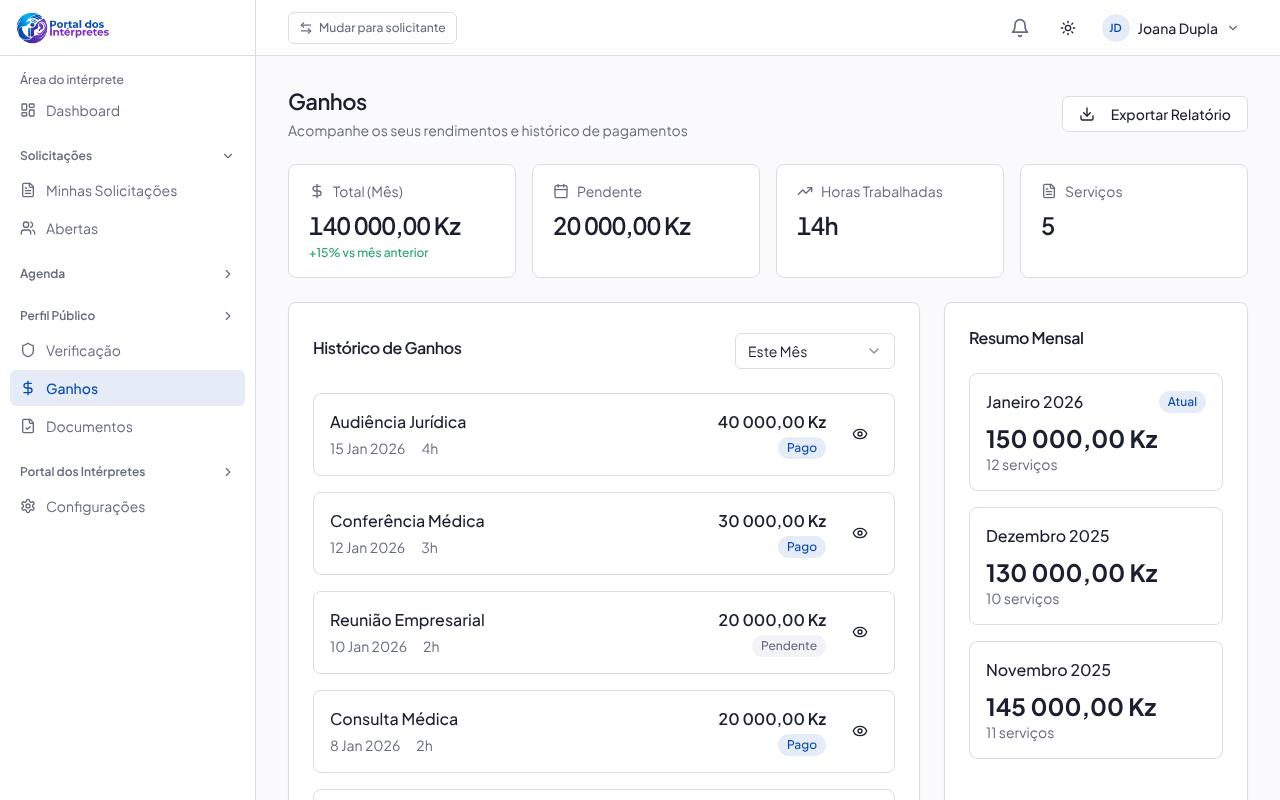
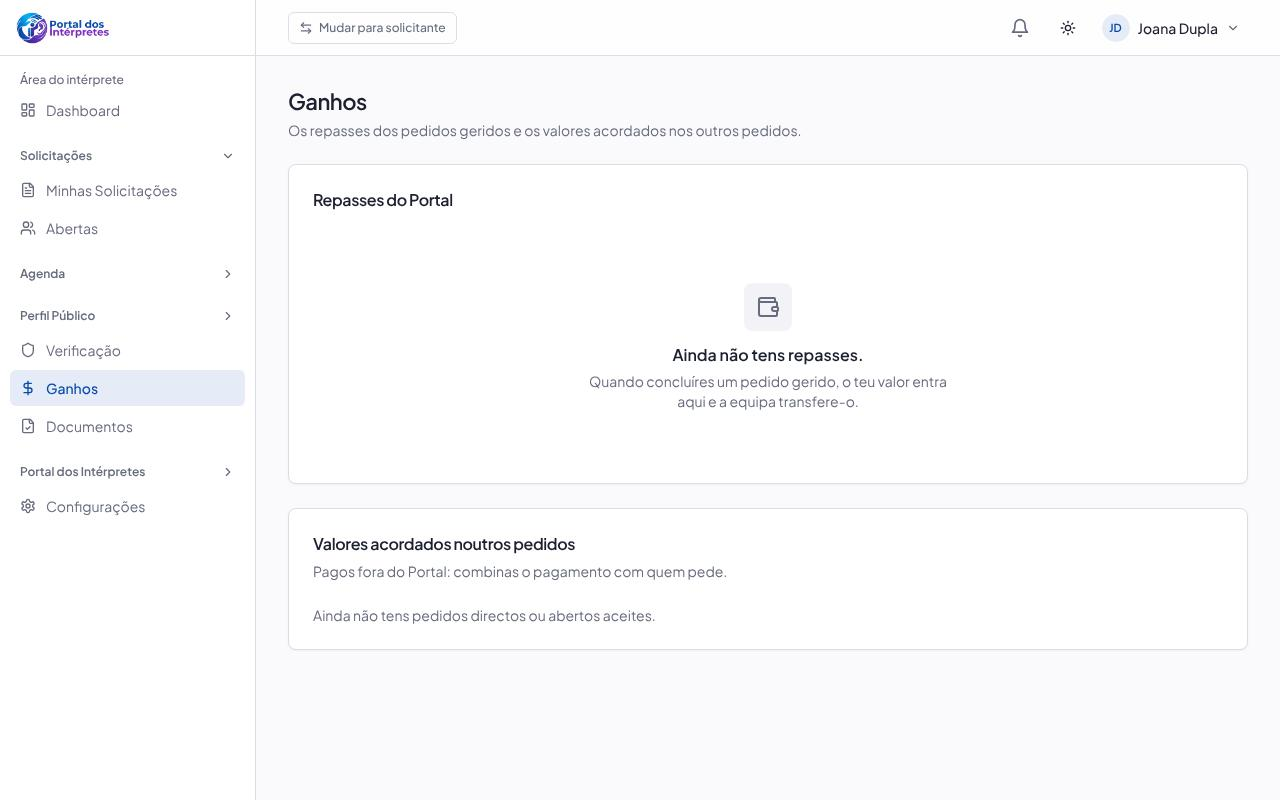
fix(billing): review of H10, and close the step as v0.19.0
- deferred refund keeps its policy; a cancelled subject refunds what is left, once, with a reason
- organisation owners and admins told; refunded split into paid and to transfer
- a corrected IBAN reaches queued payouts; late proof and repeated file refused
- refund notes for finance only; receipts refuse TRUNCATE
- ApiClient.download reads the first error; receipt PDF keeps WinAnsi characters and wraps lines
- interpreter earnings show its own payouts only
- step report, CHANGELOG, HANDOFF, run-log, AD-039; evidence of H10

diff --git a/packages/db-types/src/database.ts b/packages/db-types/src/database.ts
@@ -149,6 +149,7 @@ export type Database = {
                     "payer_account": string;
                     "reference": string;
                     "refund_due_on_confirm_aoa": number | null;
+                    "refund_due_policy": Json | null;
                     "refund_due_reason_code": string | null;
                     "status": string;
                     "subject_cancelled_at": string | null;
@@ -174,6 +175,7 @@ export type Database = {
                     "payer_account": string;
                     "reference": string;
                     "refund_due_on_confirm_aoa"?: number | null;
+                    "refund_due_policy"?: Json | null;
                     "refund_due_reason_code"?: string | null;
                     "status"?: string;
                     "subject_cancelled_at"?: string | null;
@@ -198,6 +200,7 @@ export type Database = {
                     "payer_account"?: string;
                     "reference"?: string;
                     "refund_due_on_confirm_aoa"?: number | null;
+                    "refund_due_policy"?: Json | null;
                     "refund_due_reason_code"?: string | null;
                     "status"?: string;
                     "subject_cancelled_at"?: string | null;
@@ -494,6 +497,7 @@ export type Database = {
                     "payer_name": string | null;
                     "receipts": Json | null;
                     "reference": string;
+                    "refund_pending_aoa": number | null;
                     "refunded_aoa": number | null;
                     "status": string;
                     "subject_cancelled_at": string | null;
@@ -657,6 +661,7 @@ export type Database = {
                     "payer_account": string;
                     "reference": string;
                     "refund_due_on_confirm_aoa": number | null;
+                    "refund_due_policy": Json | null;
                     "refund_due_reason_code": string | null;
                     "status": string;
                     "subject_cancelled_at": string | null;
@@ -706,6 +711,7 @@ export type Database = {
                     "payer_account": string;
                     "reference": string;
                     "refund_due_on_confirm_aoa": number | null;
+                    "refund_due_policy": Json | null;
                     "refund_due_reason_code": string | null;
                     "status": string;
                     "subject_cancelled_at": string | null;
@@ -968,6 +974,7 @@ export type Database = {
                     "payer_account": string;
                     "reference": string;
                     "refund_due_on_confirm_aoa": number | null;
+                    "refund_due_policy": Json | null;
                     "refund_due_reason_code": string | null;
                     "status": string;
                     "subject_cancelled_at": string | null;

diff --git a/apps/api/src/lib/receiptPdf.ts b/apps/api/src/lib/receiptPdf.ts
@@ -45,19 +45,47 @@ export function receiptLines(payload: ReceiptPayload): string[] {
   return lines
 }
 
-/** PDF string literal in WinAnsi (Latin-1 covers Portuguese), with ( ) \ escaped. */
+/** Characters WinAnsi has outside Latin-1, at their WinAnsi byte (names and descriptions use them). */
+const WIN_ANSI: Readonly<Record<string, number>> = {
+  '\u20ac': 0x80, '\u201a': 0x82, '\u201e': 0x84, '\u2026': 0x85, '\u2018': 0x91, '\u2019': 0x92, '\u201c': 0x93,
+  '\u201d': 0x94, '\u2022': 0x95, '\u2013': 0x96, '\u2014': 0x97, '\u0152': 0x8c, '\u0153': 0x9c,
+}
+
+/** PDF string literal in WinAnsi, with ( ) \ escaped; what WinAnsi cannot show becomes "?". */
 function pdfText(text: string): Buffer {
-  const latin = Buffer.from(text.replace(/[^\x20-\xff]/g, '?'), 'latin1')
   const parts: number[] = []
-  for (const byte of latin) {
+  for (const char of text) {
+    const code = char.codePointAt(0) ?? 0x3f
+    const byte = WIN_ANSI[char] ?? (code >= 0x20 && code <= 0xff && (code < 0x7f || code >= 0xa0) ? code : 0x3f)
     if (byte === 0x28 || byte === 0x29 || byte === 0x5c) parts.push(0x5c)
     parts.push(byte)
   }
   return Buffer.from(parts)
 }
 
+/** Lines of at most `width` characters, broken at spaces (an A4 page holds about 85 at 11 pt). */
+export function wrap(line: string, width = 85): string[] {
+  if (line.length <= width) return [line]
+  const out: string[] = []
+  let current = ''
+  for (const word of line.split(' ')) {
+    if (current && (current + ' ' + word).length > width) {
+      out.push(current)
+      current = word
+    } else {
+      current = current ? `${current} ${word}` : word
+    }
+    while (current.length > width) {
+      out.push(current.slice(0, width))
+      current = current.slice(width)
+    }
+  }
+  if (current) out.push(current)
+  return out
+}
+
 export function receiptPdf(payload: ReceiptPayload): Buffer {
-  const lines = receiptLines(payload)
+  const lines = receiptLines(payload).flatMap((line, index) => (index === 0 ? [line] : wrap(line)))
   const content: Buffer[] = [Buffer.from('BT\n/F1 11 Tf\n56 780 Td\n16 TL\n', 'latin1')]
   lines.forEach((line, index) => {
     const size = index === 0 ? 16 : 11

diff --git a/packages/data/src/dao/api/ApiClient.ts b/packages/data/src/dao/api/ApiClient.ts
@@ -74,8 +74,9 @@ export class ApiClient {
       throw new DataError('INTERNAL_ERROR', { cause })
     }
     if (response.ok) return response.blob()
-    // The error body is JSON like any other: let the common path read it.
-    return this.request<Blob>('GET', path)
+    const payload: unknown = (response.headers.get('Content-Type') ?? '').includes('application/json')
+      ? await response.json().catch(() => undefined) : undefined
+    throw this.failure(response.status, payload, 'GET', path)
   }
 
   /** Sends a file to the storage URL the API signed (POST /uploads/sign); no session header there. */
@@ -123,11 +124,16 @@ export class ApiClient {
       return payload as T
     }
 
+    throw this.failure(response.status, payload, method, path)
+  }
+
+  /** The DataError of a failed answer: the catalog code it sent, or one for its status (api.md §2). */
+  private failure(status: number, payload: unknown, method: string, path: string): DataError {
     const envelope = (payload ?? {}) as ErrorEnvelope
     const sentCode = typeof envelope.error?.code === 'string' ? envelope.error.code : undefined
-    const code = sentCode ?? STATUS_CODES[response.status] ?? 'INTERNAL_ERROR'
+    const code = sentCode ?? STATUS_CODES[status] ?? 'INTERNAL_ERROR'
     if (!sentCode || !isErrorCode(sentCode)) {
-      console.error(`[api] ${method} ${path}: ${response.status} with code ${sentCode ?? 'none'}`)
+      console.error(`[api] ${method} ${path}: ${status} with code ${sentCode ?? 'none'}`)
     }
     let params: MessageParams | undefined
     if (isParams(envelope.error?.params)) {
@@ -138,6 +144,6 @@ export class ApiClient {
     const details = isStringRecord(envelope.error?.details) ? envelope.error.details : undefined
     const error = new DataError(code, { params, details, cause: payload })
     this.options.onError?.(error, { method, path })
-    throw error
+    return error
   }
 }

diff --git a/apps/interpreter-web/src/pages/dashboard/interpreter/InterpreterEarnings.tsx b/apps/interpreter-web/src/pages/dashboard/interpreter/InterpreterEarnings.tsx
@@ -2,7 +2,7 @@ import { Link } from 'react-router-dom'
 import { useBillingQuery } from '@portal-dos-interpretes/features/billing/Billing'
 import { QueryError, TableSkeleton } from '@portal-dos-interpretes/features/components/QueryStates'
 import { priceText } from '@portal-dos-interpretes/features/requests/RequestParts'
-import { useMyAssignments } from '@portal-dos-interpretes/features/requests/RequestsContext'
+import { useMyAssignments, useRequests } from '@portal-dos-interpretes/features/requests/RequestsContext'
 import { formatAoa, formatDate, formatDateTime, PAYOUT_STATUS_LABELS } from '@portal-dos-interpretes/i18n'
 import { Badge } from '@portal-dos-interpretes/ui/components/badge'
 import { Card, CardContent, CardHeader, CardTitle } from '@portal-dos-interpretes/ui/components/card'
@@ -14,7 +14,10 @@ import { Wallet } from 'lucide-react'
 // with the reference), and apart the prices agreed in direct and open requests, paid outside the
 // Portal (D-30). Nothing is added up here: each value is what the database holds.
 export default function InterpreterEarnings() {
-  const payouts = useBillingQuery(['payouts'], (repository) => repository.payouts())
+  const { accountId } = useRequests()
+  // Only the interpreter's own: an account that is also finance reads every payout in the view.
+  const payouts = useBillingQuery(['payouts', 'mine', accountId], async (repository) =>
+    (await repository.payouts()).filter((row) => row.interpreter_id === accountId))
   const mine = useMyAssignments()
   const agreed = (mine.data ?? []).filter((row) => row.kind !== 'managed' && ['accepted', 'delivered', 'completed'].includes(row.status ?? '') && row.agreed_price_aoa !== null)
   return (

diff --git a/packages/features/src/billing/Billing.tsx b/packages/features/src/billing/Billing.tsx
@@ -57,7 +57,8 @@ export function ReceiptButton({ receipt }: { receipt: ReceiptLink }) {
       link.href = url
       link.download = `${receipt.number}.pdf`
       link.click()
-      URL.revokeObjectURL(url)
+      // Some browsers cancel the download if the link is revoked at once.
+      setTimeout(() => URL.revokeObjectURL(url), 30_000)
     } catch (error) {
       toast.error(errorMessage(error))
     } finally {
@@ -146,6 +147,8 @@ export function PaymentBlock({ payment }: { payment: PaymentRow }) {
               : <p className="text-muted-foreground">Só o dono ou um administrador da organização envia o comprovativo.</p>}
           </div>
         )}
+        {payment.status === 'cancelled' && <p className="text-muted-foreground">Este pagamento foi cancelado: já não há nada a pagar.</p>}
+        {(payment.refund_pending_aoa ?? 0) > 0 && <p>Reembolso a transferir pela equipa: <span className="tabular-nums">{formatAoa(payment.refund_pending_aoa ?? 0)}</span></p>}
         {(payment.refunded_aoa ?? 0) > 0 && <p>Reembolsado: <span className="tabular-nums">{formatAoa(payment.refunded_aoa ?? 0)}</span></p>}
         {receipts.length > 0 && <div className="flex flex-wrap gap-2">{receipts.map((receipt) => <ReceiptButton key={receipt.id} receipt={receipt} />)}</div>}
       </CardContent>

diff --git a/apps/api/src/lib/receiptPdf.test.ts b/apps/api/src/lib/receiptPdf.test.ts
@@ -1,5 +1,5 @@
 import { describe, expect, it } from 'vitest'
-import { receiptLines, receiptPdf } from './receiptPdf.js'
+import { receiptLines, receiptPdf, wrap } from './receiptPdf.js'
 
 const payload = {
   number: 'RC-2026-000001', kind: 'payment' as const, issued_at: '2026-11-06T10:00:00Z', issued_to: 'Paula (Clínica)',
@@ -21,5 +21,11 @@ describe('receipt PDF (R-PAY-12)', () => {
     expect(text).toContain('(Documento n\u00e3o fiscal) Tj')
     expect(text).toContain('Paula \\(Cl\u00ednica\\)')
     expect(text.trimEnd().endsWith('%%EOF')).toBe(true)
+  })
+
+  it('keeps the typographic characters WinAnsi has and wraps a long description (review of H10)', () => {
+    const text = receiptPdf({ ...payload, issued_to: 'Clínica D\u2019Ávila \u2013 Luanda', description: 'palavra '.repeat(40).trim() }).toString('latin1')
+    expect(text).toContain('Cl\u00ednica D\u0092\u00c1vila \u0096 Luanda')
+    expect(wrap('palavra '.repeat(40).trim()).every((line) => line.length <= 85)).toBe(true)
   })
 })

diff --git a/docs/plan/step-reports/H10.md b/docs/plan/step-reports/H10.md
@@ -1,0 +1,41 @@
+# Relatório do passo H10 — pagamentos, reembolsos, repasses e recibos (v0.19.0, 2026-11-06)
+
+## O que mudou
+- **Base (migration 0012):** `billing.payment_intents` (uma viva por assunto), `payment_proofs` (um pendente), `refunds`, `payouts`, `receipts` (imutáveis, também a `TRUNCATE`) e `identity.interpreter_payout_details`.
+- **Funções (`99c-billing.sql`):** `split_amount` (a única conta de impostos), `managed_interpreter_share` (arredonda para cima), `create_intent` (sem dados bancários da Academia, `CONFIG_VALUE_MISSING`), `submit_proof`, `review_proof`, `expire_intents` (com o aviso 12 horas antes), `cancel_intent_for_subject`, `create_refund` (com a intenção fechada `FOR UPDATE`), `create_manual_refund`, `mark_refund_paid`, `queue_payout`, `mark_payout_paid`, `cancel_payout`, `issue_receipt` (sem buracos), `identity.save_payout_details`; `billing.on_subject_event` é o gancho que o H11, o H12 e o H17 preenchem. Vistas para o pagador, as filas do financeiro e o intérprete.
+- **API:** `POST /payment-intents/:id/proofs`, `POST /admin/proofs/:id/accept|reject`, `POST /admin/refunds`, `POST /admin/refunds/:id/mark-paid`, `POST /admin/payouts/:id/mark-paid`, `PUT /me/payout-details`, `GET /receipts/:id/pdf` (PDF escrito pela API, sem dependências novas).
+- **Ecrãs:** `requester-web` `/payments` com o bloco de pagamento (valores como a intenção diz, referência e IBAN para copiar, prazo, "Enviar comprovativo", estados, recibos); `interpreter-web` `/earnings` (repasses e, à parte, os valores acordados pagos fora do Portal) e "Dados para receber" em `/settings`; `admin-web` `/payments` (comprovativos por validar, histórico), `/refunds` e `/payouts`. Os mocks antigos foram apagados.
+
+## Prova
+### Testes de comportamento contra o commit anterior
+As asserções de `packages/db/tests/0012-payments.sql`, os testes da API de pagamentos e `tests/e2e/specs/h10-payments.spec.ts` usam tabelas, funções e rotas que não existem em `v0.18.0`. Falham lá por construção e passam aqui.
+
+### Asserções SQL do H10
+```
+ok - without the Academia IBAN in the configuration an intent is refused with CONFIG_VALUE_MISSING (criterion 1)
+ok - split_amount: 114 000 with 14 % included is 100 000 + 14 000; 0 % is no tax; 80 % of 15 001 is 12 001 (criteria 4, 6)
+ok - one live intent per subject, in the function and in the database; the bank data is a copy (criterion 2)
+ok - the proof flow: send, refuse with a reason, send again, accept, one receipt; twice is STATE_CHANGED (criterion 7)
+ok - refunds up to the total, paid with a reference and a refund receipt; receipts never change (R-PAY-07, R-PAY-12)
+ok - receipt numbers have no gaps, even after a transaction failing half-way (criterion 5)
+ok - in an organisation only the owner or admin sends the proof, and they are told (R-PAY-04)
+ok - payments read by the payer side and finance only; the queue by finance only
+ok - a sent proof never expires; its refund comes when accepted; a waiting intent is warned and expires (R-PAY-06)
+ok - a cancelled subject refunds what is left, once; a proof after the deadline is INTENT_EXPIRED (review of H10)
+ok - a payout needs the interpreter's bank details; added later, the queue takes them (R-PAY-10, R-PAY-11)
+```
+Os 12 ficheiros passam numa base nova.
+
+### API, unitários e Playwright
+```
+unitários: 265 passaram (3 do PDF do recibo); API contra a base: 53 passaram (critério 3 em concorrência)
+suite completa (antes das correcções da revisão): 140 passed
+depois das correcções: h10, admin, panels e h8 106 passed
+```
+Capturas em `docs/plan/evidence/H10/`.
+
+## Revisão independente
+19 achados (0 bloqueantes). Corrigidos: a política do reembolso adiado guardada; o reembolso de um assunto cancelado limitado ao que falta e criado uma só vez; o motivo do reembolso obrigatório (sem valor por omissão); os donos e administradores da organização avisados; "Reembolsado" só com o que foi pago (o resto como "a transferir"); o IBAN corrigido chega aos repasses em fila; o comprovativo depois do prazo e o ficheiro repetido recusados; a nota do reembolso manual só para a equipa; o `download` lê o erro da primeira resposta; o link do PDF revogado mais tarde; o PDF com os caracteres WinAnsi e linhas partidas; a mensagem do pagamento cancelado; `TRUNCATE` dos recibos recusado; os ganhos do intérprete só com os seus repasses. Registados: a ordem de bloqueio para o H11 (AD-039.12), `warn_payment_review` e `managed_refund_amount` no H11, o `Idempotency-Key` (AD-039.7), o dono do ficheiro carregado não é verificado (o caminho é assinado para a intenção e só quem paga o pode assinar).
+
+## Pendente da Academia
+Dados bancários (`PC-06`), imposto e factura (`PC-04`), percentagem do intérprete (`PC-02`): sem eles, nenhuma intenção real nasce e a produção fica bloqueada.

diff --git a/HANDOFF.md b/HANDOFF.md
@@ -1,16 +1,17 @@
 # HANDOFF
-- Versão: v0.18.0 (H9 fechado em 2026-11-06)
-- Próximo passo: H10 — pagamentos: intenções, comprovativos, validação, reembolsos, repasses, recibos (docs/plan/specs/payments.md; critérios 1 a 7)
+- Versão: v0.19.0 (H10 fechado em 2026-11-06)
+- Próximo passo: H11 — pedido gerido (docs/plan/specs/requests-managed.md; critérios 1 a 6; critério 6 de service-lifecycle.md; suspensão num gerido pago, D-90)
 - Remoto: https://github.com/RafaelPilartes/monorepo-portal_dos_interprete-ts (trabalho em `dev`; `main` não se toca)
+- Feito no H10: intenções, comprovativos, validação, reembolsos, repasses e recibos; `/payments` (solicitante e admin), `/refunds`, `/payouts`, ganhos e dados para receber do intérprete (19 achados da revisão, docs/plan/step-reports/H10.md).
 - Feito no H9: avaliações dupla-cegas, revelação pelo relógio, esconder pela equipa, médias no directório e no perfil (10 achados da revisão, 8 corrigidos, docs/plan/step-reports/H9.md).
 - Feito no H8: cancelar (pedido e participação, com tardio), marcar como feito, confirmar e confirmação automática, disputas e resolução no admin, `/schedule` real, cascata da suspensão (7 achados da revisão, 6 corrigidos, docs/plan/step-reports/H8.md).
 - Feito no H7: pedido aberto nos dois modos, candidaturas, escolha, aceitação concorrente (10 achados da revisão corrigidos ou registados, docs/plan/step-reports/H7.md).
 - Feito no H6: negociação de preço no chat (propostas, contrapropostas, aceitar e recusar; 10 achados da revisão corrigidos ou registados, docs/plan/step-reports/H6.md).
 - Feito no H5: pedidos (só o directo), convites, aceitar e recusar, estado derivado, expirações, chat, sino e `/notifications`. 13 achados da revisão corrigidos ou registados (docs/plan/step-reports/H5.md).
 - A lembrar no H16: as avaliações na fila de denúncias (`R-REV-04`). A confirmar com a Academia: o prazo de avaliar fecha quando a avaliação do outro é revelada (AD-038.2).
-- A lembrar no H11: critério 6 do ciclo (reembolso numa disputa do gerido, `refund_decision`), a suspensão num gerido pago, o repasse ao concluir.
+- A lembrar no H11: preencher `billing.on_subject_event` (`booking.on_payment_event`), chamar `create_intent`, `cancel_intent_for_subject`, `queue_payout`/`cancel_payout`; fechar a intenção antes do pedido nas funções que cancelam (AD-039.12); `managed_refund_amount`, `warn_payment_review` (D-94); critério 6 do ciclo (reembolso numa disputa do gerido, `refund_decision`), a suspensão num gerido pago, o repasse ao concluir.
 - A lembrar no H7, H8 e H11: abrir os outros tipos em `booking.create_request` e no assistente; passo 4 de `refresh_request_status` (pagamento do gerido, H11). Coisas dos ecrãs adiadas: AD-034.12.
-- Auto-decisões novas: AD-034 (H5), AD-035 (H6), AD-036 (H7), AD-037 (H8), AD-038 (H9)
+- Auto-decisões novas: AD-034 (H5), AD-035 (H6), AD-036 (H7), AD-037 (H8), AD-038 (H9), AD-039 (H10)
 - Bloqueios: bundle do histórico antigo (AD-001); push de tags (correr scripts/release-tags.sh, AD-002)
 - Por confirmar com a Academia: fixos angolanos (AD-020); limites dos buckets (AD-022); reset-local (AD-025); email genérico (AD-027); preços reais dos serviços (AD-032.8); textos legais, margem do gerido, taxa de verificação e dados bancários (PC-02, PC-03, PC-05, PC-06)
 - Ambiente: arrancar o `dockerd` à mão se `docker info` falhar (apagar `/var/run/docker.pid` se ficou de uma sessão anterior); `pnpm db:up && pnpm db:bootstrap-admin admin@portal.local` antes do Playwright; `pnpm db:down` no fim. Não correr o push (que corre `db:verify`) ao mesmo tempo que o Playwright: os dois usam a base local.

diff --git a/docs/plan/auto-decisions.md b/docs/plan/auto-decisions.md
@@ -371,5 +371,7 @@
   7. **Duplo clique em "Aceitar":** a segunda chamada responde `STATE_CHANGED` (a intenção já está confirmada). O `Idempotency-Key` da API ainda não guarda respostas; fica para quando houver um pagamento real de ponta a ponta (H11).
   8. **Dados para receber:** gravados por `identity.save_payout_details` através de `PUT /me/payout-details` (sem colunas abertas à sessão); o IBAN aceita espaços e minúsculas e é guardado normalizado.
   9. **Quem lê um pagamento:** o pagador, os membros activos da organização pagadora (só `owner`/`admin` pagam) e `finance` (e `super_admin`). As filas do admin (`/payments`, `/refunds`, `/payouts`) só para `finance`.
+  11. **Revisão do H10:** quem corrige o IBAN muda a cópia de todos os repasses ainda em fila (a regra diz "os que não têm cópia"; pagar para um IBAN errado é pior); o reembolso de um assunto cancelado nunca passa o que falta reembolsar e cria-se uma só vez, com a sua política; numa organização, os avisos ao pagador vão também para os donos e administradores (são eles que pagam); um comprovativo depois do prazo é `INTENT_EXPIRED` mesmo antes de a tarefa correr; a nota de um reembolso manual é da equipa e o pagador não a lê.
+  12. **Para o H11:** as funções do pedido gerido que cancelam devem fechar a intenção **antes** do pedido (a ordem de bloqueio é a intenção primeiro), porque `review_proof` fecha a intenção e chama `on_subject_event`, que fechará o pedido. `billing.warn_payment_review` (`D-94`) e `managed_refund_amount` chegam com o gerido.
   10. **Valores de teste:** os testes usam dados bancários fictícios; os reais (`PC-06`), a taxa de imposto (`PC-04`) e a percentagem do intérprete (`PC-02`) continuam pendentes da Academia e vazios na configuração publicada, o que bloqueia a criação de intenções reais com `CONFIG_VALUE_MISSING` (critério 1).
 - **Marcas:** [RISCO] dinheiro (todos os montantes e impostos saem da base; nenhum ecrã soma; a produção fica bloqueada até `PC-02`, `PC-04` e `PC-06`).

diff --git a/docs/plan/run-log.md b/docs/plan/run-log.md
@@ -22,3 +22,4 @@
 | 2026-11-05 | H7 | v0.16.0 | 259 unitários; 8 da API de pedidos (com o concorrente); 6 asserções SQL novas; e2e 131/131 antes das correcções, h5+h6+h7 7/7 depois; verify.py 22/22 | 10 achados (0 bloqueantes; candidatos cancelados ao reduzir, expiração sem aviso aos candidatos, link da reunião para elegíveis, mensagem de sobreposição errada, aceitar depois do início); corrigidos ou registados (step-reports/H7.md) | AD-036 |
 | 2026-11-06 | H8 | v0.17.0 | 259 unitários; 49 da API contra a base; 9 asserções SQL novas; e2e 131/134 antes das correcções (3 testes de rota com textos de mocks), admin+panels+h5+h8 106/106 depois; verify.py 22/22 | 7 achados (1 bloqueante: cancelar depois de um serviço feito; confirmação repetida, tardio na conta errada, avisos, leitura das disputas); 6 corrigidos, 1 registado (step-reports/H8.md) | AD-037 |
 | 2026-11-06 | H9 | v0.18.0 | 259 unitários; 50 da API contra a base; 8 asserções SQL novas; e2e 130/133 antes das correcções, h4+panels+h8+h9+admin 108/108 depois; verify.py 22/22 | 10 achados (0 bloqueantes; incoerência revelação 14 dias vs prazo 30, escondida anunciada, dias do agradecimento, estados no admin, relógio, médias de não listados); 8 corrigidos, 2 registados (step-reports/H9.md) | AD-038 |
+| 2026-11-06 | H10 | v0.19.0 | 265 unitários; 53 da API contra a base (com o concorrente); 11 asserções SQL novas; e2e 140/140 antes das correcções, h10+admin+panels+h8 106/106 depois; verify.py 22/22 | 19 achados (0 bloqueantes; reembolso adiado sem política e sem limite, avisos à organização, reembolsado por pagar, IBAN corrigido, prazo, PDF); corrigidos ou registados (step-reports/H10.md) | AD-039 |

diff --git a/CHANGELOG.md b/CHANGELOG.md
@@ -2,6 +2,15 @@
 
 Uma versão por passo do `docs/plan/MASTER-PLAN.md`. Uma só versão para todo o monorepo.
 
+## 0.19.0 — 2026-11-06 — Passo H10 (pagamentos)
+
+- Os pagamentos pelo Portal fazem-se por transferência: quem paga vê o valor, a referência e o IBAN para copiar, e envia o comprovativo.
+- A equipa financeira aceita ou recusa cada comprovativo com o motivo; aceite, sai um recibo em PDF ("Documento não fiscal").
+- A equipa trata os reembolsos e os repasses aos intérpretes e marca-os como pagos com a referência da transferência.
+- O intérprete indica o IBAN para receber e vê os seus repasses em "Ganhos".
+- Ainda não há nada para pagar: os pedidos geridos, a verificação e os eventos pagos chegam nos próximos passos, e os dados bancários da Academia continuam por indicar.
+- Relatório: `docs/plan/step-reports/H10.md`.
+
 ## 0.18.0 — 2026-11-06 — Passo H9 (avaliações)
 
 - Depois de cada serviço concluído, quem pede e o intérprete avaliam-se um ao outro, com estrelas e um comentário.
